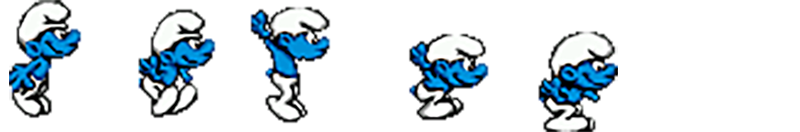
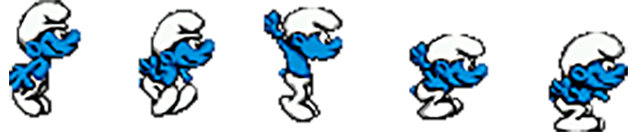
jumping and walking big fixed

diff --git a/js/createSmurf.js b/js/createSmurf.js
@@ -18,8 +18,8 @@ function createSmurf(smurfContext, smurfSpriteSheet, startingX, startingY) {
         context: smurfContext,
         width: smurfJumpingSheet.width / 5,
         height: smurfJumpingSheet.height,
-        framesCount: 0,
-        maxFrames: 0,
+        framesCount: 2,
+        maxFrames: 5,
         maxTicks: 5,
         elapsedFrames: 0,
         frameIndex: 0,

diff --git a/js/startGame.js b/js/startGame.js
@@ -109,6 +109,8 @@ function startGame() {
         }
 
         let smurfLastCoordinates = smurfBody.move();
+        smurfLastCoordinates.x -= 5;
+        
         let currentSmurfSprite = smurf.currentSmurfSprite;
         if ((smurfBody.coordinates.y + smurfBody.height) < smurfCanvas.height) {
             currentSmurfSprite = smurf.smurfJumpingSprite;
